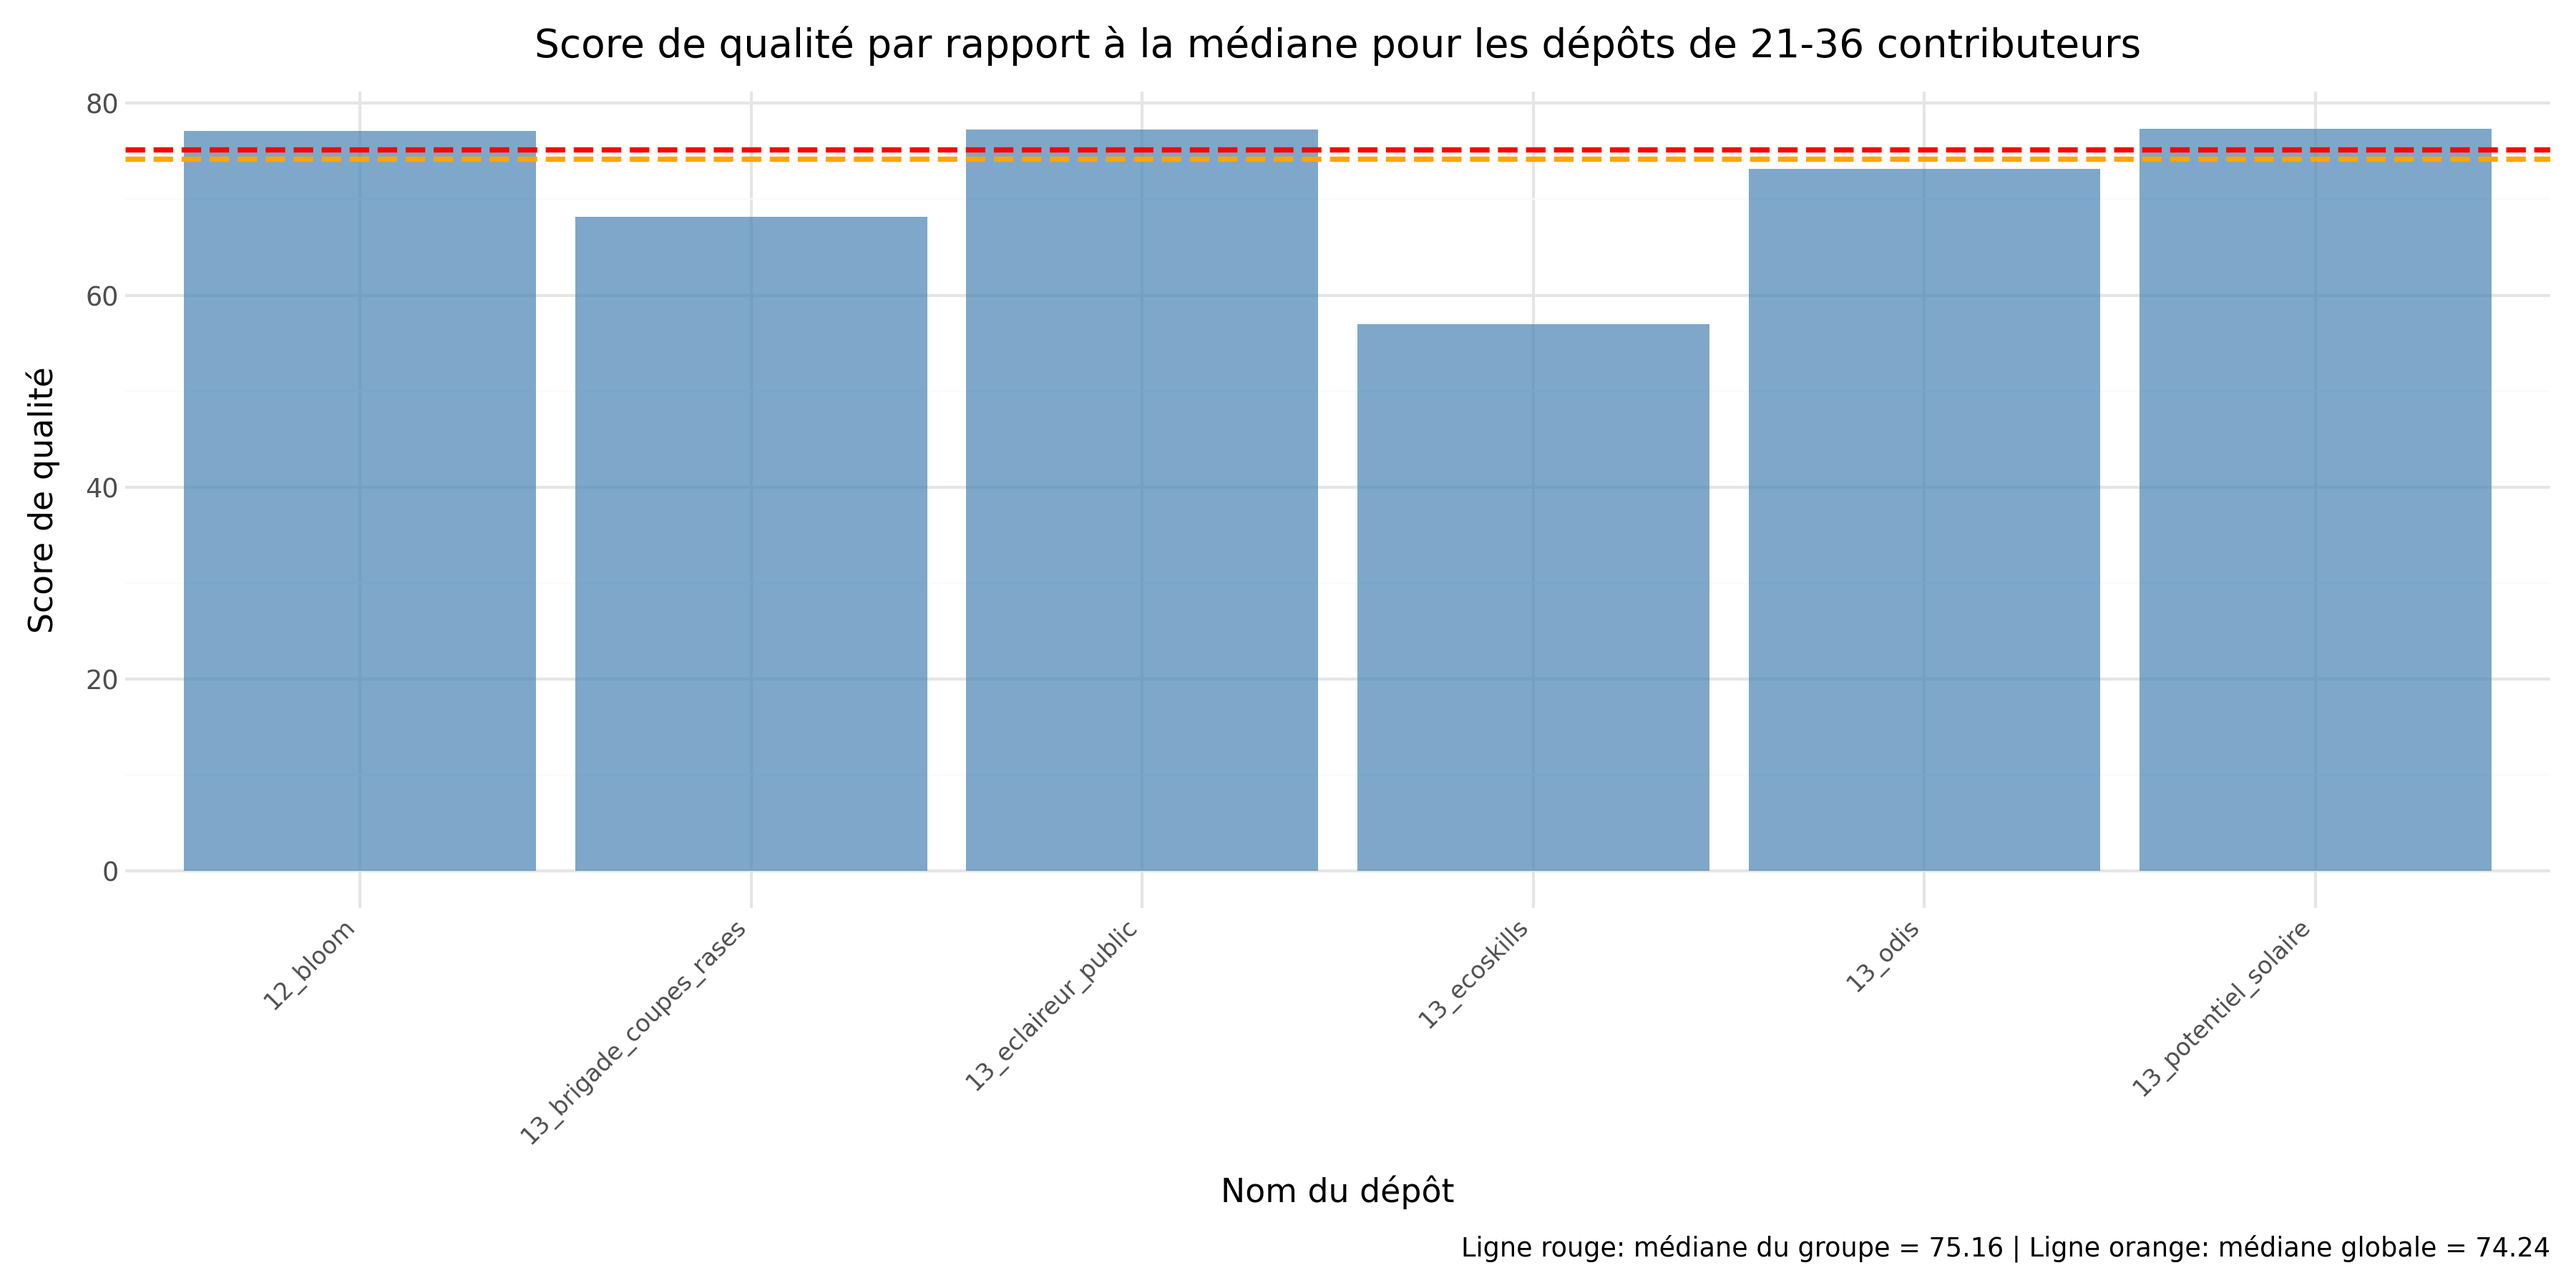
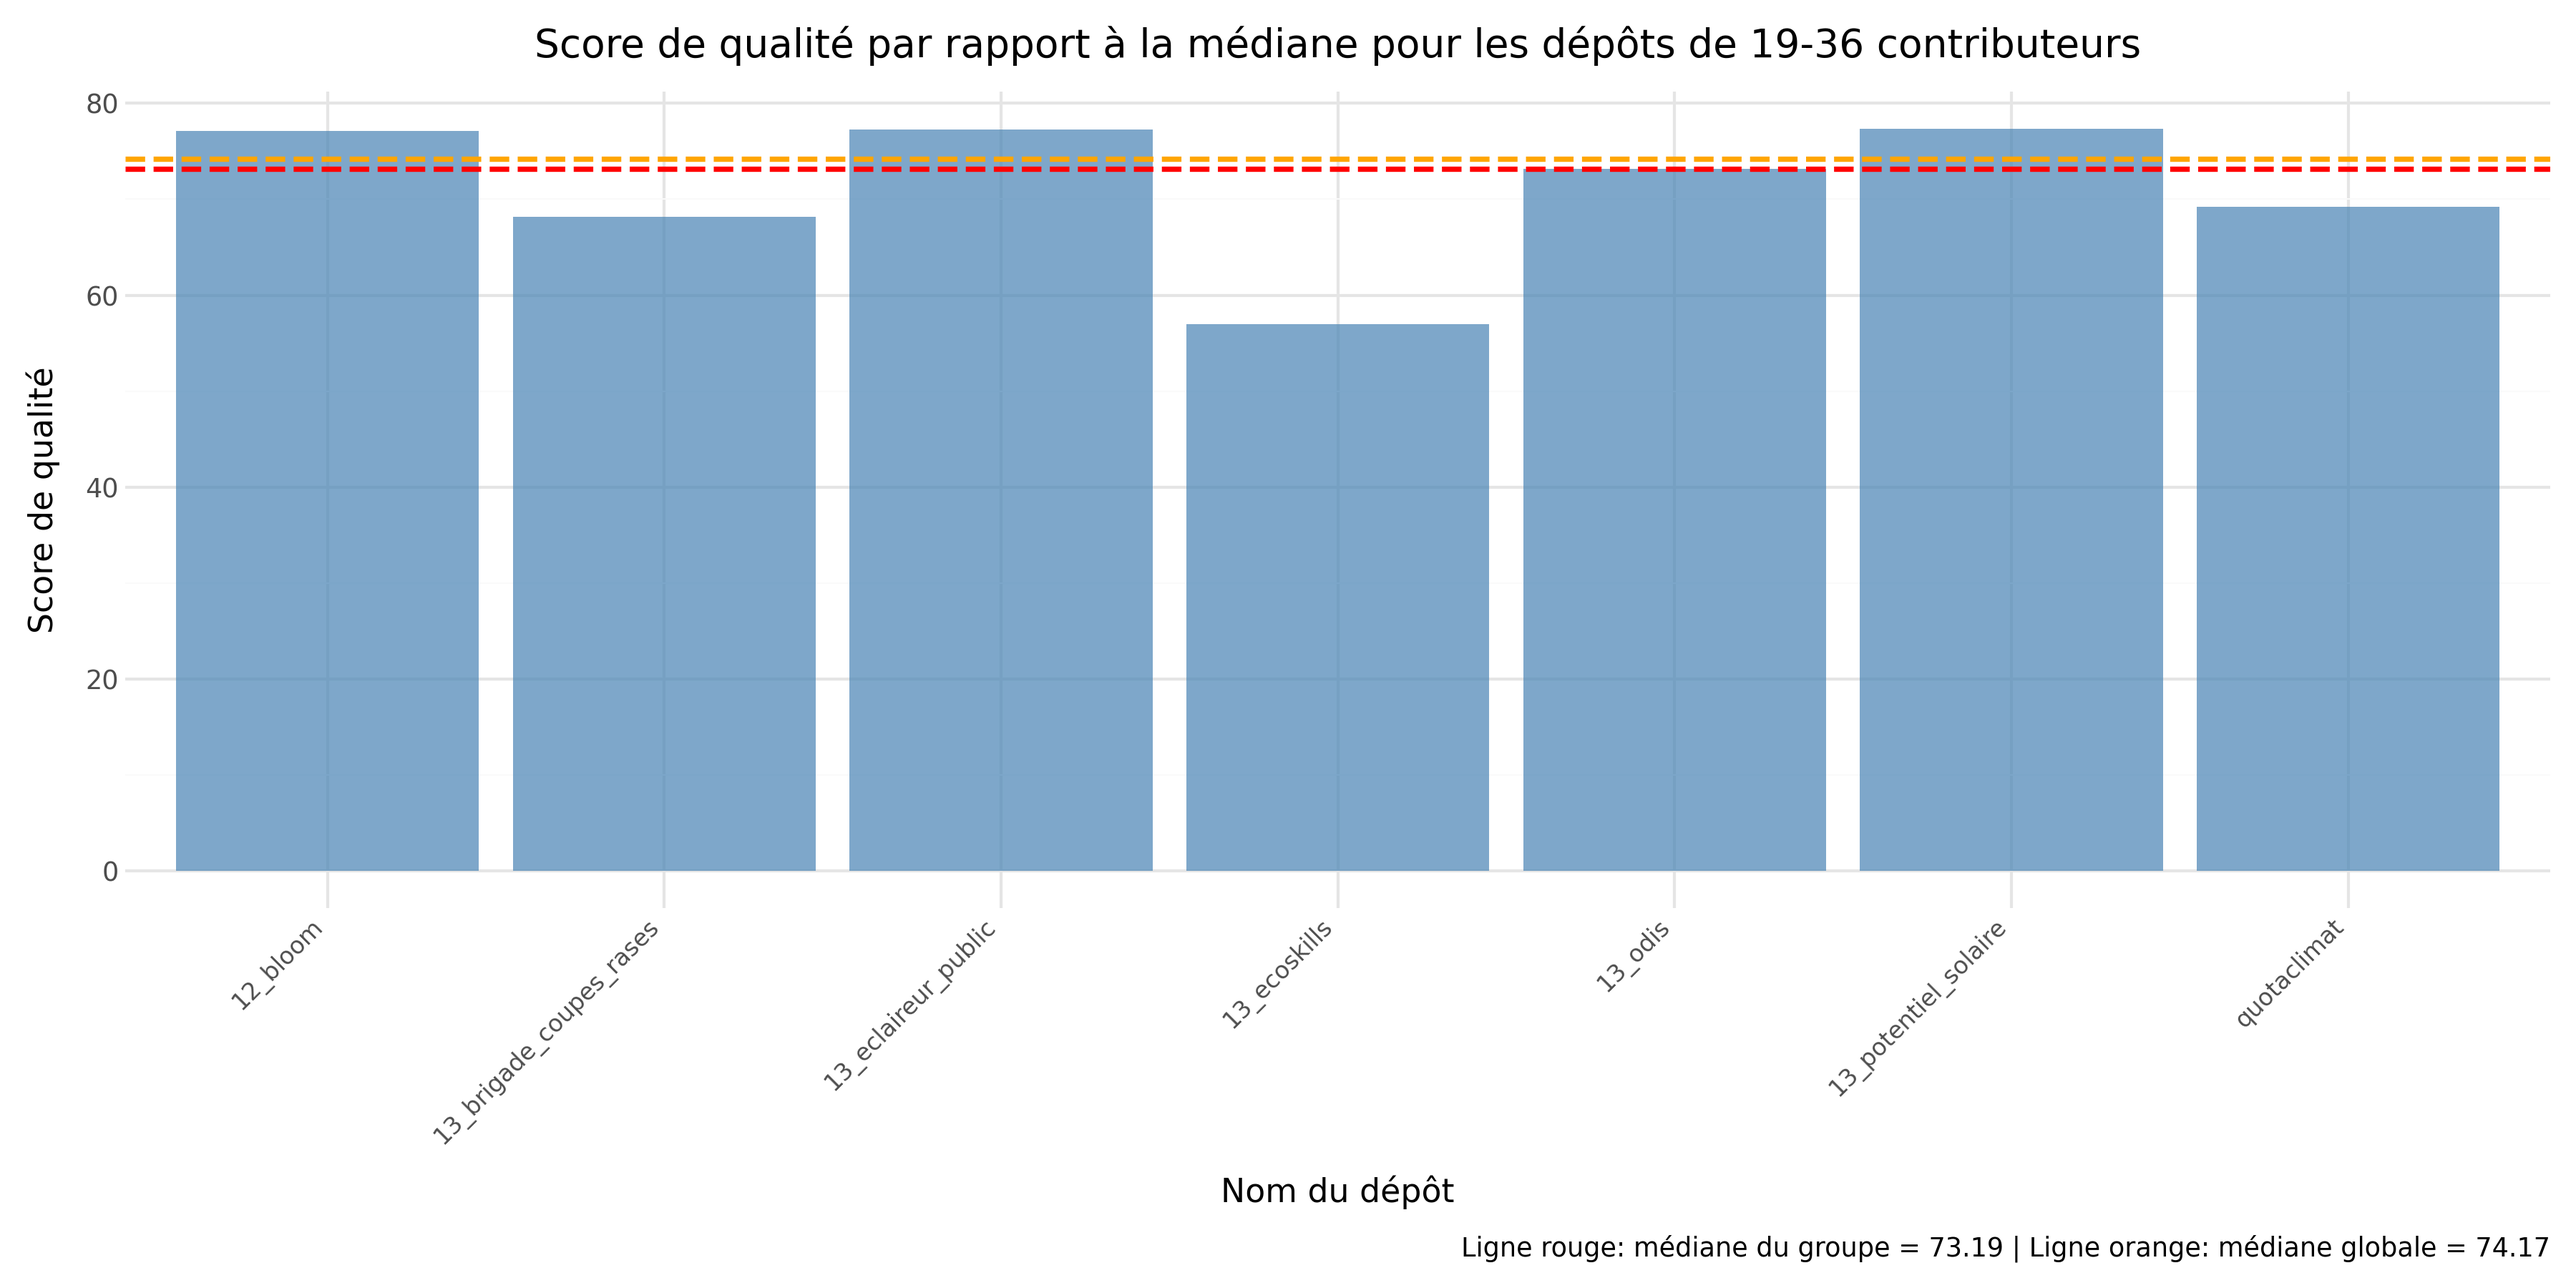
chore: replace images + question 2

diff --git a/chapters/2026/Etude_Data_For_Good_Qualite_Team_B/content.md b/chapters/2026/Etude_Data_For_Good_Qualite_Team_B/content.md
@@ -116,6 +116,63 @@ Vous **explicitez les expérimentations que vous allez mener** pour vérifier si
         
         ou Vous présentez l'ensemble des hypothèses puis vous expliquer comment les expériences prévues permettront de démontrer vos hypothèses.
 
+
+### Sous question 2 :
+
+#### Objectif et hypothèse
+
+Déterminer si, et à partir de quel volume de contributeurs, la qualité d’un dépôt s’écarte notablement de la médiane de l’échantillon.
+
+#### Protocole expérimental
+
+1. Mesure du nombre de contributeurs
+
+     - Pour chaque dépôt retenu, nous comptons les contributeurs distincts à partir de l'historique Git/GitHub (voir `2-nombre-contributeurs/data/contributors.csv`).
+     - Choix méthodologique : comptage « brut » d’identités uniques (pas de pondération par nombre de commits).
+
+2. Construction de groupes comparables
+
+     - Regroupement des dépôts en intervalles de taille d'équipe pour comparer des ensembles homogènes :
+
+       - **Groupe 1 :** 4–9 contributeurs
+       - **Groupe 2 :** 10–15 contributeurs
+       - **Groupe 3 :** 21–36 contributeurs
+
+3. Mesure de la qualité et indicateurs d’écart
+
+     - Utilisation du score de qualité normalisé (sous-question 1, basé sur SonarQube).
+     - Indicateurs calculés :
+       - médiane globale des scor  es (tous dépôts) — référence : **74.24**
+       - médiane par groupe (comparée à la médiane globale)
+       - dispersion par groupe (boxplot — IQR et outliers)
+
+     - Interprétation attendue si l'hypothèse est vraie : augmentation de la médiane de groupe et boxplots plus resserrés quand l’effectif augmente.
+
+#### Résultats (par groupe)
+
+Les figures (qualite_groupe_1/2/3) montrent les scores dépôt par dépôt, avec la médiane globale en référence.
+
+- **Groupe 1 (4–9 contributeurs)** : médiane = **78.97** (+4.73 vs médiane globale). Majorité des dépôts au-dessus de la médiane, mais présence d'un dépôt faible (~52) indiquant une dispersion.
+
+- **Groupe 2 (10–15 contributeurs)** : médiane = **69.36** (−4.88 vs médiane globale). Scores regroupés autour de ~67–74, un dépôt isolé faible (~61).
+
+- **Groupe 3 (21–36 contributeurs)** : médiane = **75.16** (+0.92 vs médiane globale). Scores proches de la médiane globale, dispersion modérée, un outlier faible (~57).
+
+#### Distribution et validation de l'hypothèse
+
+- Le boxplot (`qualite_boxplot_groupes`) montre qu'il n'y a pas de progression monotone de la médiane avec le nombre de contributeurs : le groupe 10–15 a une médiane plus basse que le groupe 4–9.
+- On observe une légère tendance au recentrage pour les très grands projets (21–36), mais la présence d'outliers indique que le seul nombre de contributeurs n'explique pas entièrement la qualité.
+
+#### Conclusion (sous-question 2)
+
+Sur cet échantillon, il n'existe pas de seuil unique au-delà duquel la qualité augmente systématiquement avec le nombre de contributeurs. Les dépôts avec 10–15 contributeurs présentent l'écart négatif le plus marqué, tandis que les projets 21–36 tendent à se rapprocher de la médiane globale.
+
+#### Limites spécifiques
+
+- Effectifs par groupe modestes : interprétations exploratoires, sensibles aux outliers.
+- Découpage en intervalles : bornes choisies pour l'équilibre des groupes (16–20 non exploité).
+- Corrélation ≠ causalité : d'autres facteurs (maturité, langage, gouvernance) peuvent influer sur la qualité.
+
 ### Sous-question 3
 
 Pour classifier les différents messages de commits, nous avons commencé par utiliser des patterns simples avec un script reproductible pour avoir une première idée de la répartition et des tendances :
